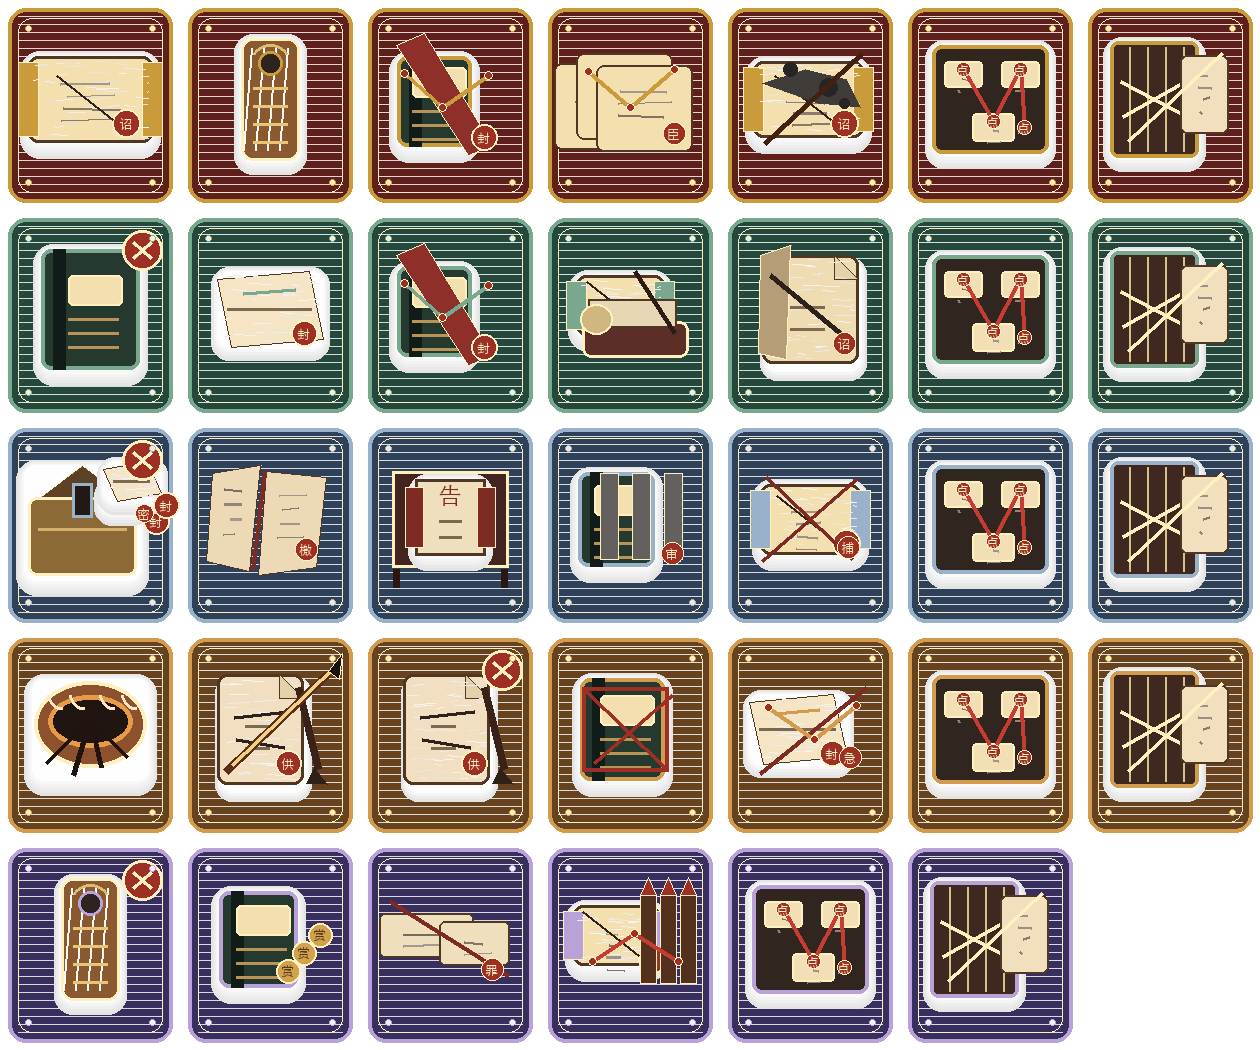
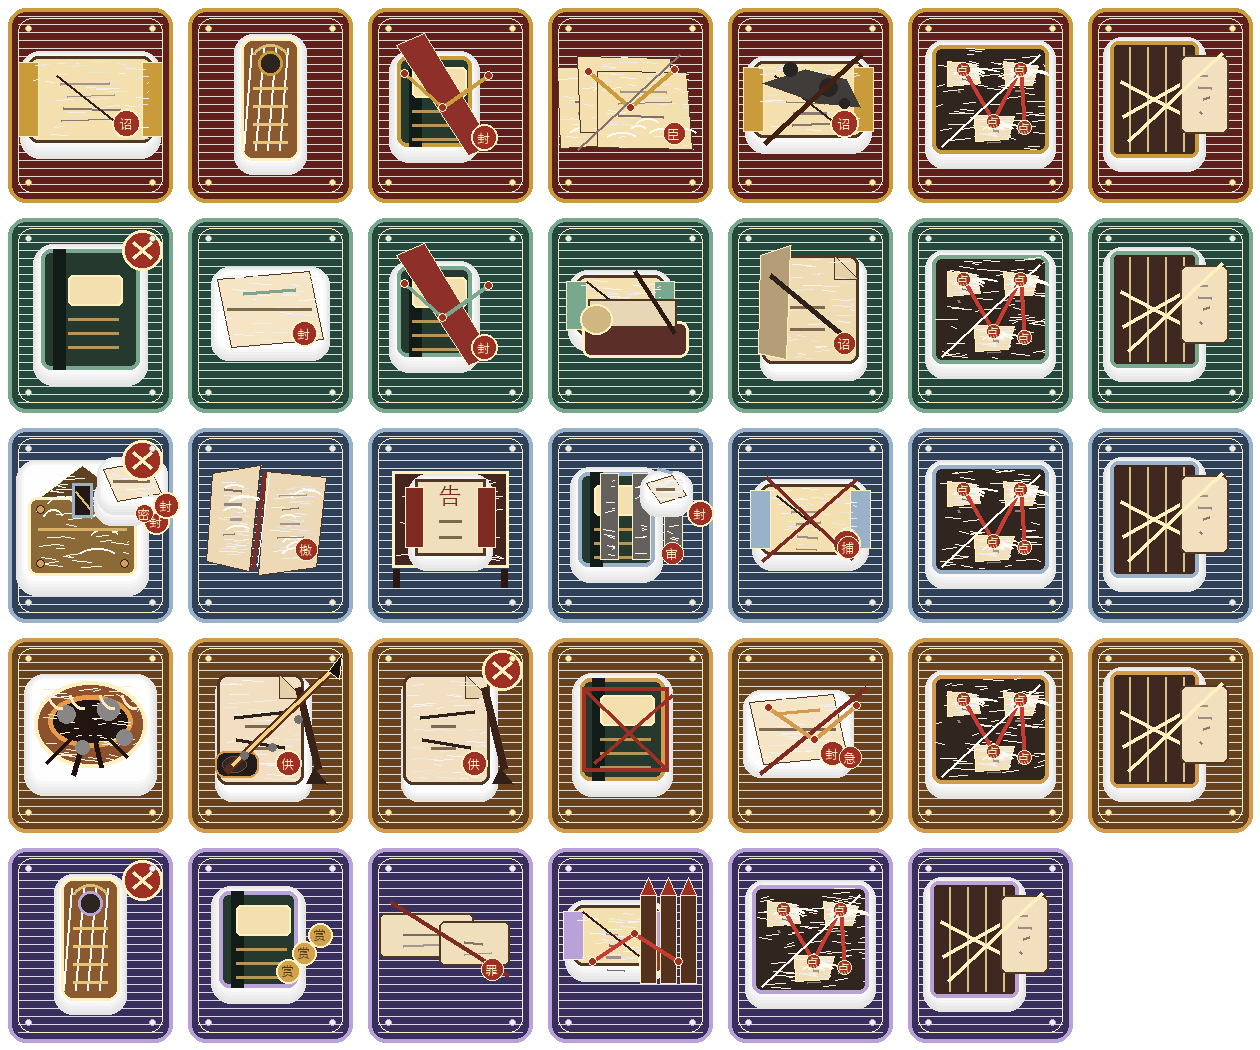
增强复杂证物位图质感
为证物雪碧图生成器增加手绘质感工具，包括纸张纹理、粗糙纸边、材质颗粒和局部高光，用于替代过于几何化的复杂证物表现。

重点增强多物体或高复杂度证物：元老联名折、线索板、铜匦投书、空瓮痕迹、残檄、榜文、审讯名册和供状笔墨，让它们更像可检查的历史道具而不是抽象图标。

重新生成 evidence-item-sheet-v3.png，并修复供状笔墨格子中砚台绘制溢出的问题，确保雪碧图仍保持稳定格子裁切。

验证：npm run check:js；PYTHONPYCACHEPREFIX=.pycache npm run check:py；git diff --check；人工查看 regenerated PNG 雪碧图。浏览器截图仍受本地环境限制，已记录在 progress.md。

diff --git a/scripts/generate_evidence_item_sheet.py b/scripts/generate_evidence_item_sheet.py
@@ -85,6 +85,44 @@ def draw_paper_texture(draw: ImageDraw.ImageDraw, box: tuple[int, int, int, int]
         draw.line((x, y, min(x + length, x2 - 4), y + rng.randint(-1, 1)), fill=color, width=1)
 
 
+def draw_material_grain(draw: ImageDraw.ImageDraw, box: tuple[int, int, int, int], seed: str, color: tuple[int, int, int], count: int = 34) -> None:
+    rng = random.Random(seed)
+    x1, y1, x2, y2 = box
+    for _ in range(count):
+        x = rng.randint(x1 + 3, max(x1 + 3, x2 - 5))
+        y = rng.randint(y1 + 3, max(y1 + 3, y2 - 5))
+        length = rng.randint(5, 20)
+        alpha = rng.randint(22, 75)
+        draw.line((x, y, min(x + length, x2 - 4), y + rng.randint(-2, 2)), fill=color + (alpha,), width=1)
+
+
+def draw_handpainted_highlight(draw: ImageDraw.ImageDraw, box: tuple[int, int, int, int], seed: str) -> None:
+    rng = random.Random(seed)
+    x1, y1, x2, y2 = box
+    for _ in range(5):
+        x = rng.randint(x1 + 8, max(x1 + 8, x2 - 22))
+        y = rng.randint(y1 + 6, max(y1 + 6, y2 - 16))
+        draw.arc((x, y, x + rng.randint(18, 42), y + rng.randint(10, 26)), 205, 330, fill=(255, 241, 191, rng.randint(34, 72)), width=2)
+
+
+def ragged_paper_points(box: tuple[int, int, int, int], seed: str, jitter: int = 7) -> list[tuple[int, int]]:
+    rng = random.Random(seed)
+    x1, y1, x2, y2 = box
+    return [
+        (x1 + rng.randint(0, jitter), y1 + rng.randint(0, jitter)),
+        (x2 - rng.randint(0, jitter), y1 + rng.randint(0, jitter)),
+        (x2 - rng.randint(0, jitter), y2 - rng.randint(0, jitter)),
+        (x1 + rng.randint(0, jitter), y2 - rng.randint(0, jitter)),
+    ]
+
+
+def draw_ragged_paper(draw: ImageDraw.ImageDraw, box: tuple[int, int, int, int], seed: str, fill: str = "#f4dfaf", outline: str = "#4f3724") -> None:
+    points = ragged_paper_points(box, seed)
+    draw.polygon(points, fill=fill, outline=outline)
+    draw_paper_texture(draw, box, seed, 48)
+    draw_handpainted_highlight(draw, box, f"paper-hi-{seed}")
+
+
 def draw_brush_text(draw: ImageDraw.ImageDraw, box: tuple[int, int, int, int], seed: str, rows: int = 4) -> None:
     rng = random.Random(seed)
     x1, y1, x2, y2 = box
@@ -310,7 +348,12 @@ def draw_bronze_box(draw: ImageDraw.ImageDraw, center: tuple[int, int], scale: f
     draw_soft_shadow(draw, (cx - 58, cy - 62, cx + 58, cy + 52), 16)
     draw.rounded_rectangle((cx - 54, cy - 30, cx + 54, cy + 48), radius=9, fill="#8b6a38", outline="#fff1bf", width=3)
     draw.polygon([(cx - 42, cy - 30), (cx, cy - 62), (cx + 42, cy - 30)], fill="#5c4124", outline="#fff1bf")
+    draw_material_grain(draw, (cx - 50, cy - 57, cx + 50, cy + 45), f"bronze-grain-{center}", (255, 217, 139), 54)
+    draw_handpainted_highlight(draw, (cx - 48, cy - 54, cx + 48, cy + 42), f"bronze-hi-{center}")
+    for px, py in ((cx - 42, cy - 18), (cx + 42, cy - 18), (cx - 42, cy + 36), (cx + 42, cy + 36)):
+        draw.ellipse((px - 4, py - 4, px + 4, py + 4), fill="#d0a05a", outline="#3d2418")
     draw.rectangle((cx - 10, cy - 44, cx + 10, cy - 10), fill="#221815", outline=accent, width=3)
+    draw.line((cx - 7, cy - 36, cx + 7, cy - 19), fill="#d8bd72", width=2)
     draw.line((cx - 44, cy + 2, cx + 44, cy + 2), fill="#d5b066", width=3)
     draw_letter(draw, (cx + 40, cy - 30), 0.42, accent)
 
@@ -320,9 +363,12 @@ def draw_jar(draw: ImageDraw.ImageDraw, center: tuple[int, int], scale: float, a
     draw_soft_shadow(draw, (cx - 48, cy - 58, cx + 48, cy + 58), 16)
     draw.ellipse((cx - 46, cy - 58, cx + 46, cy - 22), fill="#3a231b", outline="#fff1bf", width=3)
     draw.rounded_rectangle((cx - 38, cy - 36, cx + 38, cy + 54), radius=28, fill="#7b4a2a", outline="#fff1bf", width=3)
+    draw_material_grain(draw, (cx - 36, cy - 35, cx + 36, cy + 52), f"jar-grain-{center}", (255, 191, 112), 48)
     draw.arc((cx - 42, cy - 64, cx + 42, cy - 16), 10, 170, fill="#e89b47", width=6)
     draw.line((cx - 28, cy - 18, cx + 26, cy + 30), fill=accent, width=5)
     draw.line((cx - 20, cy + 20, cx + 30, cy - 18), fill="#2b1712", width=4)
+    for dx, dy in [(-22, -30), (12, -26), (28, 4), (-6, 22)]:
+        draw.ellipse((cx + dx - 9, cy + dy - 6, cx + dx + 9, cy + dy + 7), fill=(28, 18, 14, 90))
     for i in range(3):
         draw.arc((cx + 30 + i * 8, cy - 50 - i * 5, cx + 66 + i * 8, cy + 4 + i * 2), 95, 168, fill=(255, 206, 126, 90), width=2)
 
@@ -388,9 +434,10 @@ def draw_petition_stack(draw: ImageDraw.ImageDraw, center: tuple[int, int], scal
     cx, cy = center
     for offset, tilt in [(-22, 8), (0, -2), (20, 10)]:
         paper = (cx - 54 + offset, cy - 44 + tilt, cx + 42 + offset, cy + 42 + tilt)
-        draw.rounded_rectangle(paper, radius=8, fill="#f4dfaf", outline="#4f3724", width=2)
+        draw_ragged_paper(draw, paper, f"petition-paper-{offset}", "#f4dfaf", "#4f3724")
         draw_brush_text(draw, (paper[0] + 14, paper[1] + 14, paper[2] - 12, paper[3] - 12), f"petition-{offset}", 3)
     draw_thread(draw, [(cx - 42, cy - 28), (cx, cy + 8), (cx + 44, cy - 30)], accent)
+    draw.line((cx - 52, cy + 50, cx + 50, cy - 45), fill=(65, 32, 18, 160), width=2)
     draw_stamp(draw, (cx + 44, cy + 34), "臣", 0.92)
 
 
@@ -409,14 +456,16 @@ def draw_evidence_board(draw: ImageDraw.ImageDraw, center: tuple[int, int], scal
     board = (cx - 58, cy - 54, cx + 58, cy + 54)
     draw_soft_shadow(draw, board, 15)
     draw.rounded_rectangle(board, radius=10, fill="#31261f", outline=accent, width=4)
+    draw_material_grain(draw, board, f"board-grain-{center}", (214, 172, 100), 62)
     cards = [(cx - 46, cy - 38, cx - 8, cy - 12), (cx + 11, cy - 38, cx + 49, cy - 12), (cx - 18, cy + 14, cx + 24, cy + 42)]
     pins = []
     for index, card in enumerate(cards):
-        draw.rounded_rectangle(card, radius=4, fill="#f3dfb5", outline="#fff1bf", width=2)
+        draw_ragged_paper(draw, card, f"board-card-{index}", "#f3dfb5", "#fff1bf")
         draw_brush_text(draw, (card[0] + 5, card[1] + 5, card[2] - 5, card[3] - 5), f"board-{index}", 2)
         pins.append(((card[0] + card[2]) // 2, card[1] + 8))
     pins.append((cx + 34, cy + 28))
     draw_thread(draw, [pins[0], pins[2], pins[1], pins[3]], "#c63c32")
+    draw.line((cx - 48, cy + 47, cx + 50, cy - 45), fill=(255, 241, 191, 42), width=2)
     for point in pins:
         draw_stamp(draw, point, "点", 0.56)
 
@@ -462,14 +511,18 @@ def draw_torn_manifesto(draw: ImageDraw.ImageDraw, center: tuple[int, int], scal
     for index, poly in enumerate([left, right]):
         draw.polygon(poly, fill="#edd9b6", outline="#4f3724")
         bounds = (min(x for x, _ in poly) + 8, min(y for _, y in poly) + 12, max(x for x, _ in poly) - 8, max(y for _, y in poly) - 12)
+        draw_paper_texture(draw, bounds, f"manifesto-paper-{index}", 58)
+        draw_handpainted_highlight(draw, bounds, f"manifesto-hi-{index}")
         draw_brush_text(draw, bounds, f"manifesto-{index}", 4)
     draw.line((cx - 6, cy - 48, cx - 18, cy + 50), fill="#7d2b23", width=4)
+    draw.line((cx - 1, cy - 45, cx - 13, cy + 47), fill=(255, 241, 191, 75), width=1)
     draw_stamp(draw, (cx + 36, cy + 30), "檄", 0.88)
 
 
 def draw_street_notice(draw: ImageDraw.ImageDraw, center: tuple[int, int], scale: float, accent: str) -> None:
     cx, cy = center
     draw.rectangle((cx - 58, cy - 48, cx + 58, cy + 48), fill="#44241e", outline="#fff1bf", width=3)
+    draw_material_grain(draw, (cx - 58, cy - 48, cx + 58, cy + 48), f"notice-board-{center}", (219, 168, 93), 38)
     draw_notice(draw, (cx, cy - 2), 0.72, accent)
     draw.line((cx - 54, cy + 50, cx - 54, cy + 68), fill="#2b1712", width=7)
     draw.line((cx + 54, cy + 50, cx + 54, cy + 68), fill="#2b1712", width=7)
@@ -479,7 +532,10 @@ def draw_interrogation_roster(draw: ImageDraw.ImageDraw, center: tuple[int, int]
     cx, cy = center
     draw_ledger(draw, (cx - 14, cy), 0.84, accent)
     for offset in (-30, 2, 34):
-        draw.rectangle((cx + offset, cy - 46, cx + offset + 18, cy + 40), fill=(24, 17, 14, 170), outline="#fff1bf")
+        strip = (cx + offset, cy - 46, cx + offset + 18, cy + 40)
+        draw.rectangle(strip, fill=(24, 17, 14, 170), outline="#fff1bf")
+        draw_material_grain(draw, strip, f"roster-bar-{offset}", (255, 241, 191), 12)
+    draw_letter(draw, (cx + 36, cy - 30), 0.38, accent)
     draw_stamp(draw, (cx + 42, cy + 34), "审", 0.86)
 
 
@@ -496,8 +552,11 @@ def draw_scorched_jar_mouth(draw: ImageDraw.ImageDraw, center: tuple[int, int], 
     draw_soft_shadow(draw, (cx - 58, cy - 50, cx + 58, cy + 50), 16)
     draw.ellipse((cx - 56, cy - 48, cx + 56, cy + 38), fill="#8d512e", outline="#fff1bf", width=4)
     draw.ellipse((cx - 42, cy - 34, cx + 42, cy + 18), fill="#211512", outline="#e89b47", width=5)
+    draw_material_grain(draw, (cx - 52, cy - 45, cx + 52, cy + 35), f"scorch-grain-{center}", (255, 184, 88), 54)
     for angle, length in [(-44, 44), (-17, 56), (11, 48), (37, 38)]:
         draw.line((cx, cy - 10, cx + angle, cy - 10 + length), fill="#201310", width=5)
+    for dx, dy, r in [(-24, -15, 9), (18, -20, 11), (34, 8, 8), (-8, 18, 7)]:
+        draw.ellipse((cx + dx - r, cy + dy - r, cx + dx + r, cy + dy + r), fill=(16, 11, 9, 125))
     for dx in (-34, -12, 18, 40):
         draw.arc((cx + dx - 10, cy - 62, cx + dx + 18, cy - 20), 80, 160, fill=(255, 205, 122, 115), width=3)
 
@@ -505,9 +564,14 @@ def draw_scorched_jar_mouth(draw: ImageDraw.ImageDraw, center: tuple[int, int], 
 def draw_confession_brush(draw: ImageDraw.ImageDraw, center: tuple[int, int], scale: float, accent: str) -> None:
     cx, cy = center
     draw_confession(draw, (cx - 6, cy), 0.92, accent)
+    inkstone = (cx - 55, cy + 22, cx - 12, cy + 48)
+    draw.rounded_rectangle(inkstone, radius=10, fill="#211c1b", outline=accent, width=2)
+    draw.ellipse((cx - 48, cy + 27, cx - 24, cy + 43), fill="#312726", outline="#675146", width=1)
     draw.line((cx - 44, cy + 42, cx + 58, cy - 56), fill="#5c2d19", width=8)
     draw.line((cx - 38, cy + 36, cx + 64, cy - 62), fill="#f0d083", width=3)
     draw.polygon([(cx + 58, cy - 58), (cx + 72, cy - 76), (cx + 69, cy - 50)], fill="#171211", outline="#fff1bf")
+    for dx, dy in [(-26, 26), (2, 18), (28, -10)]:
+        draw.ellipse((cx + dx - 4, cy + dy - 4, cx + dx + 4, cy + dy + 4), fill=(18, 14, 13, 150))
 
 
 def draw_interrogation_manual(draw: ImageDraw.ImageDraw, center: tuple[int, int], scale: float, accent: str) -> None:

diff --git a/progress.md b/progress.md
@@ -1838,3 +1838,27 @@ Remaining Ace Attorney gap list:
 - Evidence art already uses bitmap sheets, but complex props still need a follow-up pass using exportable Image API assets or a stronger generated sprite workflow.
 - Saved compare deductions now update the Court Record, but they still do not unlock new trial-only evidence or branch dialogue.
 - Browser visual verification needs to be rerun when local browser execution is available again.
+
+## 2026-06-18 iteration 67 result
+
+Implemented:
+- Strengthened the committed raster evidence-sheet pipeline for complex evidence objects.
+- Added reusable hand-painted material helpers to `scripts/generate_evidence_item_sheet.py`: paper grain, rough paper edges, material grain, and small highlight strokes.
+- Applied the richer raster treatment to multi-object and high-complexity props: minister petition stacks, clue boards, bronze petition boxes, scorched urn mouths, torn manifestos, street notices, interrogation rosters, and confession brush/inkstone evidence.
+- Regenerated `game/assets/evidence-item-sheet-v3.png` so these items read more like distinct historical props instead of flat geometric icons.
+- Fixed a generated-art overflow issue where the confession inkstone reused a large-object brush path and escaped its evidence cell.
+
+Verified:
+- `npm run check:js`
+- `PYTHONPYCACHEPREFIX="/Users/oubeichen/Projects/wuzetian2/.pycache" npm run check:py`
+- `git diff --check`
+- Visual inspection of `game/assets/evidence-item-sheet-v3.png` confirmed the regenerated sheet stays inside its grid cells and the complex props now have visible paper, bronze, soot, thread, and ink textures.
+
+Blocked verification:
+- No fresh browser screenshot was captured in this iteration because the local browser restrictions recorded in iteration 66 still apply.
+
+Remaining Ace Attorney gap list:
+- Evidence icons are now stronger committed bitmap props, but the workflow still lacks direct, per-prop exported Image API source files that can be curated one by one.
+- Case-intro copy is more story-like, but investigation dialogue, evidence descriptions, and trial testimony still need a broader character-voice rewrite.
+- Saved compare deductions update the Court Record, but they still do not unlock new trial-only evidence or branch dialogue.
+- Browser visual verification needs to be rerun when local browser execution is available again.

diff --git a/PLAN.md b/PLAN.md
@@ -96,6 +96,7 @@ No large vertical fan-out was needed. This corpus is one EPUB with 46 chapter en
 
 ## Log
 
+- 2026-06-18: Phase 7 iteration 67 done. Strengthened the committed raster evidence-sheet pipeline with reusable hand-painted material helpers, regenerated `evidence-item-sheet-v3.png`, and improved complex multi-object props such as petition stacks, clue boards, bronze boxes, scorched urns, torn manifestos, notices, interrogation rosters, and confession brush/inkstone evidence. Fixed a generated-art overflow issue in the confession inkstone cell. Verified JS/Python checks, diff hygiene, and visual inspection of the regenerated PNG sheet. Remaining gap: replace or augment selected high-value props with directly exported Image API source assets when a filesystem-exportable path is available, and rerun browser visual QA when local browser execution is available.
 - 2026-06-18: Phase 7 iteration 66 done. Rewrote the case-intro headline paragraph and briefing cards for all five cases into story-first incident hooks, replaced opaque chapter-source buttons with player-readable clue titles such as `宫门前的哭声` and `值夜签被改`, preserved original chapter provenance in the detail panel, and exposed case-source story fields through `render_game_to_text` for regression checks. Verified JS/Python checks, diff hygiene, and source coverage for all current timelines. Browser QA remains blocked: standalone Playwright fails on Chromium Mach port permissions, in-app Browser rejects `file://` by URL policy, and local HTTP serving from the browser runtime fails with `listen EPERM`; rerun visual verification when browser execution is available. Remaining gap: continue rewriting investigation/evidence/trial copy into character-driven story text and finish stronger generated evidence-item art.
 - 2026-06-18: Phase 7 iteration 65 done. Persisted successful Court Record `证物对照` results as saved `对照札记` entries through `recordDeductions`, rendered `已对照` badges in evidence rows, showed saved notes in selected evidence details and the inspect compare panel, and exposed deduction QA fields. Verified JS/Python checks, diff hygiene, and source-level save/restore/render wiring. Browser reload verification was attempted but blocked by the environment approval/usage limit before Chromium could launch; rerun the saved-deduction reload path when browser execution is available. Remaining gap: use saved deductions to unlock trial-only notes or branch dialogue.
 - 2026-06-18: Phase 7 iteration 64 done. Added a Court Record `证物对照` secondary reasoning step that unlocks after an evidence item reaches full `详查` progress. The compare panel offers collected same-case evidence candidates, confirms correct pairings such as `后位线索板` + `染墨的封后诏稿`, gives non-punitive hints for misses, exposes compare readiness/options/target/result QA fields, and fixes mobile inspect actions so they no longer cover the compare panel. Verified JS/Python checks, diff hygiene, develop-web-game QA, desktop full-inspection compare flow with no overflow, and mobile compare flow with no horizontal overflow. Remaining gap: let successful comparisons unlock trial-only notes or branch dialogue.